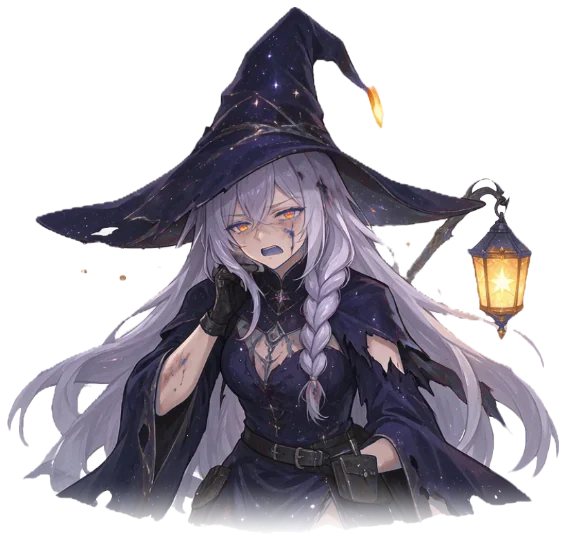
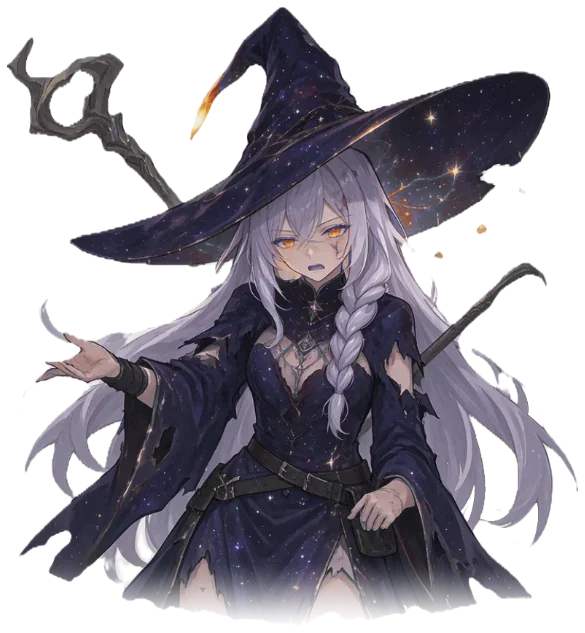
fix: Toy 审核整改——stage-4/5 弃受伤意象，改压暗渐弱
第九次驳回（assets/index-CwrlEL6u.js，md5 确认即当时 HEAD——用户提交的
已经是清洗后的包仍被拒）。第八轮的 deblood 只换色相保亮度，脸上暗紫
流淌痕依旧读作'受伤的脸'；撕裂衣+痛苦表情+淤青痕的受创少女整体意象
仍卡审核。放大目检确认：4/5 的暗色流消痕、抓痕清晰可见。

整改（资产替换，零配置/测试改动）：
- stage-4/5 用 stage-3 母本渐进压暗（93%/85% 亮度、92%/84% 饱和）重新
  生成——不悦表情、无任何伤痕，表现'渐渐虚弱'而非'挨打受伤'
- deblood.py 保留在管线作血迹兜底；AGENTS.md §三 升级为双轮教训：
  '战损'用磨损装备/压暗/去饱和表达，不用人体伤害表达；面部任何颜色
  的流痕都不安全
- Toy 包重建（4/5 哈希更新），799 测试全过，lint 干净
- 后续若要恢复渐进破损画面：让画师直接出'装备破损但人体无伤'的 4/5
  原图替换即可（git 可回溯旧版）

diff --git a/AGENTS.md b/AGENTS.md
@@ -94,16 +94,21 @@ pnpm build:toy     # tsc + vite（vite.toy.config.ts）+ 剥离站外产物
 英文避免 `KILLER / WEAPON / DEATH / BOMB` 一类实词（`dead-center`、`deadeye` 这类构词无碍），
 以及奇幻实体 `Enchanted / Elven / Neptune`（theme 场景用 `Verdant / Tide` 等自然词）。
 
-## 三、图片红线（第八次驳回：立绘血迹）
+## 三、图片红线（第八、九次驳回：立绘血迹与受创意象）
 
 - 图片里**不要出现文字**，除非确有必要；有必要时，文字同样遵守第二节全部规则（会被 OCR 扫描）。
-- **图片内容同样审核，血迹一票否决**（第八次驳回：薇斯珀 stage-4/5 立绘的血痕/血污随包上线
-  被点名）。Boss 立绘是打进包的真实图片资源——**所有出场图片（webp/png）都要过目检**：
-  血、断肢、裸露、恐怖意象都不行。
-- 立绘清洗已自动化：`tools/boss-cut/deblood.py` 把血红像素（含暗褐 dried blood）移向服装紫调，
-  保亮度压饱和；`stages.py` 出图时自动调用，**重跑管线不会回退**。新人设/新图组的原图若自带
-  血迹，要么让画师改原图，要么扩 `deblood.py` 的捕获带并逐张目检。
-- `check:package` 扫不了图片内容——每轮提审前人工看一遍 `dist/assets/*.webp`（尤其是新图）。
+- **图片内容同样审核。第八次驳回**：薇斯珀 stage-4/5 立绘血迹随包上线被点名。**第九次驳回**：
+  用 deblood 只换色相还不够——脸上暗紫流淌痕仍读作"受伤的脸"，撕裂衣+痛苦表情+淤青痕的
+  "受创少女"整体意象照卡。最终解法：stage-4/5 改用 stage-3 母本渐进压暗（表现"渐渐虚弱"，
+  不表现"挨打受伤"）。
+- **红线细则**：出场图片（webp/png）目检清单——血/流血痕、淤青、伤口、扭曲痛苦表情、撕裂裸露、
+  断肢、恐怖意象，全都不行。"战损"用**磨损装备、压暗、去饱和**表达，不用**人体伤害**表达。
+  面部任何形式的流痕（无论什么颜色）都不安全。
+- `tools/boss-cut/deblood.py` 仍留在管线里（`stages.py` 出图自动调用）作为血迹兜底，但**它
+  只能除血色，不能把受伤画面变成安全画面**——新图组的"受损态"要么让画师直接画装备破损版，
+  要么用压暗/去饱和派生，别拿带伤原图洗色交差。
+- `check:package` 扫不了图片内容——每轮提审前人工看一遍 `dist/assets/*.webp`（尤其新图），
+  放大看脸部。
 - `og-cover.png` 不进提审包（`build:toy` 会删）；网页版需要改它时用
   `promo/scripts/make_og_cover.mjs` 重生成，不要手改 PNG。
 - 新增任何 `public/` 图片或 SVG：先自查是否有站外 logo、二维码、绝对化文案、军事/死亡意象。
